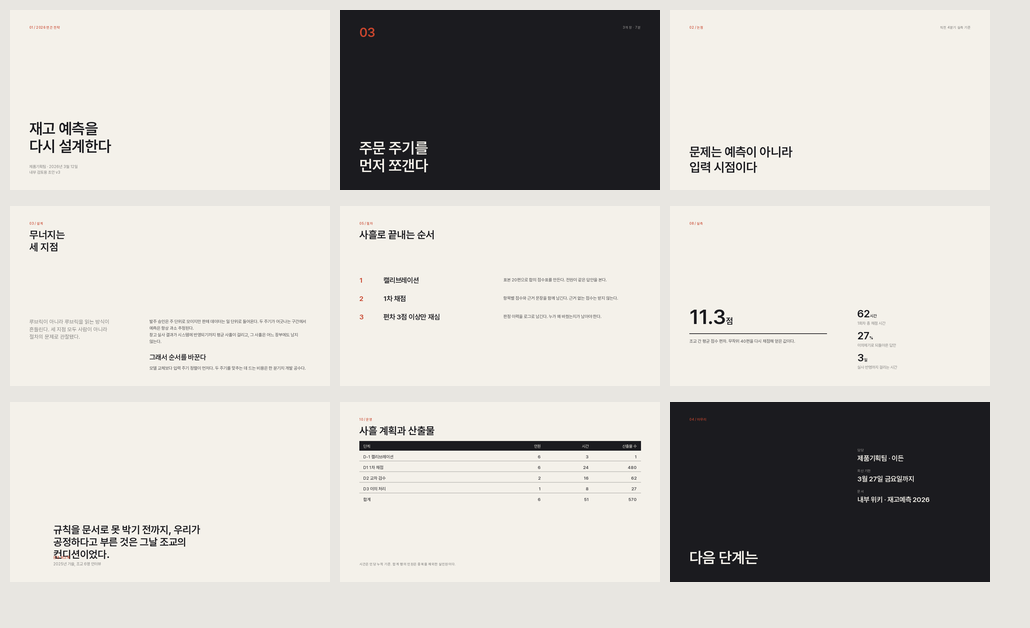
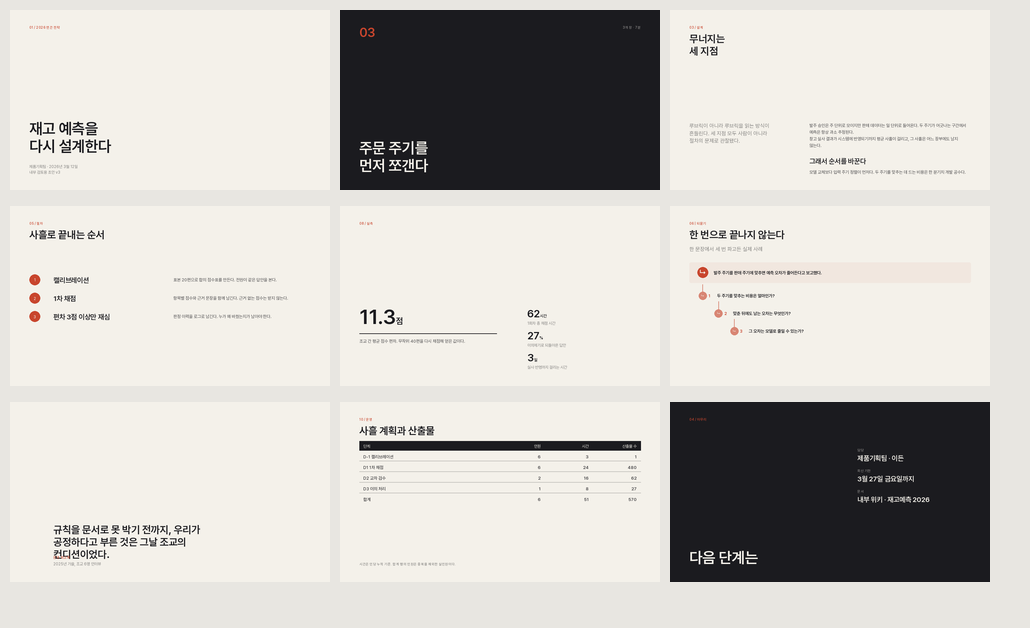
도형 어휘 추가 — 배지·패널·연결선. 텍스트만 있는 장을 없앤다
"시각적으로 눈길을 끄는 게 없다"는 지적을 받고, 앞서 텍스트만 재고
도형은 한 번도 재지 않았다는 걸 알았다. 사용자 덱 4종의 도형을 실측했다.

실측 (슬라이드당 도형 중앙값 5개)
- OVAL 295개 — 지름 32(124회) / 24(62회). 행의 시작점을 잡는 배지
- ROUNDED_RECTANGLE 269개 — 모서리 반경 5pt. 폭 845(전폭) / 412 / 268
- 연결선 124개 — 두께 1.0pt(193회), 배지와 배지를 잇는다
- 채움 EDF1EC = accent 를 ground 쪽으로 0.94, 보조 배지 6E9C7F = 0.37

hard_rules 재정의
- no_rounded_corner / no_decor_rule / no_full_width_band 폐기.
  이 셋은 사용자가 실제로 잘 쓰는 장치를 통째로 막고 있었다
- no_decorative_shape 로 대체 — 모든 도형은 활자를 담거나 관계를 나타내야 한다.
  장식만 하는 도형은 여전히 만들 수 없다. no_title_underline 은 유지

추가
- deckkit: badge() / panel() / connector() 프리미티브,
  accent_tint · accent_soft 파생색
- chain 레이아웃 — 전제 패널 + 꼬리를 무는 질문.
  사용자 덱 12쪽의 좌표(들여쓰기 47.5 / 행 step 53 / 배지 중심 98)를 그대로 옮겼다
- cards 4모드의 색인을 배지로 교체
- 미리보기 렌더러가 원·라운드 사각형을 제대로 그린다
- lint_deck: SHAPE 검사(허용 어휘 + 활자 포함 여부), ALIGN 은 배지 글리프 예외

diff --git a/scripts/lint_deck.py b/scripts/lint_deck.py
@@ -46,10 +46,8 @@ def main(path):
             got = int(spc.group(1)) if spc else 0
             if want is not None and got != want:
                 fail("TRACK", f"s{i}: {pt}pt 의 자간 {got} != 스타일 값 {want}")
-        if 'algn="ctr"' in x:
-            fail("ALIGN", f"s{i}: 가운데 정렬 단락이 있다")
-        if "<a:gradFill" in x or "roundRect" in x:
-            fail("HARD", f"s{i}: 그라데이션 또는 둥근 모서리가 있다")
+        if "<a:gradFill" in x:
+            fail("HARD", f"s{i}: 그라데이션이 있다")
         for sp in re.findall(r"<p:sp>.*?</p:sp>", x, re.S):
             if "<a:prstGeom" in sp and "<a:effectLst/>" not in sp and "<a:effectLst>" in sp:
                 fail("NO_SHADOW", f"s{i}: 효과가 걸린 도형이 있다")
@@ -82,7 +80,11 @@ def main(path):
         for n, boxes in sorted(by_slide.items()):
             for b in boxes:
                 # image_full 의 글자는 판 내부 좌표라 그리드 밖을 허용한다
-                if b["tag"] in ("full-title", "caption") or (b["tag"] == "eyebrow" and b["y"] > 300):
+                # chain 의 들여쓰기(47.5pt step)와 배지 안 활자는 컬럼 그리드를 일부러 벗어난다.
+                # 계단이 관계를 나타내는 장치이기 때문이다 — 사용자 덱도 82.1/129.6/177.1 이다.
+                if b["tag"].startswith(("chain-", "badge-", "panel-")) or \
+                   b["tag"] in ("full-title", "caption", "ledger-index") or \
+                   (b["tag"] == "eyebrow" and b["y"] > 300):
                     continue
                 if b["x"] not in COLS and round(b["x"]) not in {round(col_x(n)) + spec["table"]["pad_x"] for n in range(1, 13)} | {round(col_x(n) + span_w(sp) - spec["table"]["pad_x"]) for n in range(1, 13) for sp in (2, 3, 4, 6)} | {58, 72}:
                     fail("GRID", f"s{n}: '{b['tag']}' x={b['x']} 가 컬럼 좌표가 아니다")
@@ -92,6 +94,9 @@ def main(path):
                 # 검사 대상은 '눈썹 라벨 역할'(tag == eyebrow)뿐이다.
                 # image_full 만 예외 — 눈썹이 판 내부(y 340)에 놓인다 (§8.15).
                 ok_y = {(spec.get("rhythm_y") or {}).get("eyebrow_y", 56), 340, 354}
+                # 가운데 정렬은 배지 안 글리프에만 허용한다. 본문은 전부 좌정렬.
+                if b.get("align") == "center" and not b["tag"].startswith("badge-"):
+                    fail("ALIGN", f"s{n}: '{b['tag']}' 가운데 정렬 — 본문은 좌정렬이다")
                 if b["tag"] == "eyebrow" and b["y"] not in ok_y:
                     fail("EYEBROW_Y", f"s{n}: 눈썹 라벨 y={b['y']} (56 고정)")
             R = spec.get("rhythm_y")
@@ -108,19 +113,25 @@ def main(path):
             elif 56 not in tops and max(bottoms) < 483.5:
                 fail("ANCHOR", f"s{n}: 상단 56 도 하단 484 도 잡히지 않았다 "
                                f"(최하단 {max(bottoms):.0f})")
+        # 도형 어휘 검사 — "도형 금지"가 아니라 "장식만 하는 도형 금지"다.
+        # panel/badge 는 안에 활자가 있어야 하고, 선은 관계를 나타내야 한다.
+        ALLOWED = {"plate", "panel", "badge", "connector", "hero_rule", "table_rule"}
         for sh in man.get("shapes", []):
-            k = sh.get("kind")
-            if k == "plate":
-                if min(sh["w"], sh["h"]) < spec["plates"]["plate_min_side"]:
-                    fail("PLATE", f"s{sh['slide']}: plate 짧은 변 {min(sh['w'], sh['h'])} < 32")
-            elif k == "hero_rule":
-                if sh["h"] != spec["rules"]["hero_rule_w"]:
-                    fail("PLATE", f"s{sh['slide']}: hero_rule 두께 {sh['h']}")
-            elif k == "table_rule":
-                if sh["h"] != spec["rules"]["table_rule_w"]:
-                    fail("PLATE", f"s{sh['slide']}: table_rule 두께 {sh['h']}")
-            else:
-                fail("PLATE", f"s{sh['slide']}: 허용되지 않은 사각형 '{k}'")
+            k, n = sh.get("kind"), sh["slide"]
+            if k not in ALLOWED:
+                fail("SHAPE", f"s{n}: 허용되지 않은 도형 '{k}'")
+                continue
+            if k in ("plate", "panel", "badge"):
+                inside = [b for b in by_slide.get(n, [])
+                          if b["x"] >= sh["x"] - 2 and b["y"] >= sh["y"] - 14
+                          and b["x"] + b["w"] <= sh["x"] + sh["w"] + 2
+                          and b["y"] <= sh["y"] + sh["h"] + 4]
+                if not inside and k != "panel":
+                    fail("SHAPE", f"s{n}: '{k}' 안에 활자가 없다 — 장식 도형은 만들지 않는다")
+                if min(sh["w"], sh["h"]) < spec["plates"]["plate_min_side"] and k == "plate":
+                    fail("PLATE", f"s{n}: plate 짧은 변 {min(sh['w'], sh['h'])} 미달")
+            if k == "connector" and sh["w"] > 3:
+                fail("SHAPE", f"s{n}: 연결선 두께 {sh['w']} — 1pt 안팎이어야 한다")
     else:
         fail("PLATE", "매니페스트가 없어 사각형·그리드 검사를 못 했다")
 

diff --git a/scripts/build.py b/scripts/build.py
@@ -176,20 +176,23 @@ def cards(d, s, m, sl):
     BIAS = 0.38      # 남는 높이의 38%만 위에 둔다 — 정중앙보다 살짝 위가 안정적이다
 
     def cell_h(it, w):
-        h = 20 + g.bh(it.get("title", ""), w, "h2")
+        h = d.spec["shapes"]["badge_d_sub"] + 10 + g.bh(it.get("title", ""), w, "h2")
         if it.get("body"):
             h += 8 + g.bh(it["body"], w, "small")
         return h
 
+    SH = d.spec["shapes"]
+
     def cell(it, x, w, y):
-        d.text(s, "micro", x, y, w, 15, str(it.get("index", "")),
-               color="accent", tag="card-index")
+        dd = SH["badge_d_sub"]
+        d.badge(s, x + dd / 2, y + dd / 2, dd, "accent",
+                glyph=str(it.get("index", "")), glyph_color="ground", style="small")
         th = g.bh(it.get("title", ""), w, "h2")
-        d.text(s, "h2", x, y + 20, w, th, it.get("title", ""), tag="card-title")
+        d.text(s, "h2", x, y + dd + 10, w, th, it.get("title", ""), tag="card-title")
         if it.get("body"):
             bh_ = g.bh(it["body"], w, "small")
-            d.text(s, "small", x, y + 20 + th + 8, w, bh_, it["body"],
-                   color="muted", tag="card-body")
+            d.text(s, "small", x, y + SH["badge_d_sub"] + 10 + th + 8, w, bh_,
+                   it["body"], color="muted", tag="card-body")
 
     # 행은 실제 높이로 위에서부터 쌓는다. 남은 높이에 균등 분배하면 흩어져 보인다.
     def place(total):
@@ -209,8 +212,9 @@ def cards(d, s, m, sl):
         for it in items[:3]:
             th = g.bh(it.get("title", ""), span_w(4), "h2")
             bh_ = g.bh(it.get("body", ""), span_w(6), "body") if it.get("body") else 0
-            d.text(s, "h2", col_x(1), y, span_w(1), th, str(it.get("index", "")),
-                   color="accent", tag="ledger-index")
+            SH = d.spec["shapes"]
+            d.badge(s, col_x(1) + SH["badge_d"] / 2, y + 13, SH["badge_d"], "accent",
+                    glyph=str(it.get("index", "")), glyph_color="ground", style="small")
             d.text(s, "h2", col_x(2), y, span_w(4), th, it.get("title", ""),
                    tag="ledger-title")
             if bh_:
@@ -278,6 +282,45 @@ def quote(d, s, m, sl):
     if sl.get("note"):
         d.text(s, "small", col_x(2), y_note, span_w(5), 18, sl["note"],
                color="muted", tag="quote-note")
+
+
+def chain(d, s, m, sl):
+    """전제 패널 + 꼬리를 무는 질문. 사용자 덱 12쪽의 구조를 좌표까지 그대로 옮긴 것이다.
+    패널 = 묶음, 배지 = 행의 시작점, 연결선 = 파고드는 관계. 셋 다 장식이 아니다."""
+    g = L(d)
+    SH = d.spec["shapes"]
+    g.head(s, sl, span=12)
+    y = g.top
+    if sl.get("lead"):
+        lh = g.bh(sl["lead"], span_w(10), "lead")
+        d.text(s, "lead", col_x(1), y, span_w(10), lh, sl["lead"], color="muted", tag="lead")
+        y += lh + 30
+
+    bx = col_x(1) + 40                      # 배지 중심 x (실측 98)
+    if sl.get("panel"):
+        ph = SH["panel_h"]
+        d.panel(s, col_x(1), y, span_w(12), ph, radius=SH["panel_radius"])
+        d.badge(s, bx, y + ph / 2, SH["badge_d"], "accent",
+                glyph=sl.get("panel_mark", "\u21b3"), glyph_color="ground", style="h2")
+        d.text(s, "body", col_x(1) + 73, y + ph / 2 - 11, span_w(12) - 90, 22,
+               sl["panel"], font_key="head", tag="panel-text")
+        y += ph
+
+    steps = sl.get("steps") or []
+    dsub, ind, step = SH["badge_d_sub"], SH["chain_indent"], SH["chain_step"]
+    if len(steps) > 4:
+        warn(f"slide {d._slide_i}: chain 단계 {len(steps)}개 — 4개까지만 들여쓰기가 화면에 든다")
+    for i, tx in enumerate(steps[:4]):
+        cx = bx + i * ind
+        cy = y + 39 + i * step
+        d.connector(s, cx, (y + 4.6) if i == 0 else (cy - step + dsub / 2 + 5),
+                    (cy - dsub / 2) - ((y + 4.6) if i == 0 else (cy - step + dsub / 2 + 5)))
+        d.badge(s, cx, cy, dsub, "accent_soft", glyph="\u21b3",
+                glyph_color="ground", style="micro")
+        d.text(s, "small", cx + 17, cy - 9, 22, 18, str(i + 1),
+               color="accent", font_key="head", tag="chain-num")
+        d.text(s, "body", cx + 43, cy - 11, content_r() - (cx + 43), 22, str(tx),
+               font_key="head", tag="chain-text")
 
 
 def table(d, s, m, sl):
@@ -351,7 +394,7 @@ def image_full(d, s, m, sl):
                color="muted", tag="caption")
 
 
-LAYOUTS = {"cover": cover, "closing": closing, "section": section,
+LAYOUTS = {"cover": cover, "closing": closing, "section": section, "chain": chain,
            "statement": statement, "two_col": two_col, "cards": cards,
            "data": data, "quote": quote, "table": table,
            "image_split": image_split, "image_full": image_full}

diff --git a/scripts/deckkit.py b/scripts/deckkit.py
@@ -123,7 +123,10 @@ def derive(pal: dict, cfg: dict) -> dict:
                "ink2":  mix(f, g, c["tone_ink2"]),
                "muted": mix(f, g, c["tone_muted"]),
                "faint": mix(f, g, c["tone_faint"]),
-               "hairline": mix(f, g, c["hairline_mix"])}
+               "hairline": mix(f, g, c["hairline_mix"]),
+               # 실측 — 패널 채움 EDF1EC = accent 를 ground 쪽으로 0.94, 보조 배지 6E9C7F = 0.37
+               "accent_tint": mix(pal["accent"], g, c.get("accent_tint_mix", 0.94)),
+               "accent_soft": mix(pal["accent"], g, c.get("accent_soft_mix", 0.37))}
         assert contrast(out["ink2"], g) >= c["min_ratio_body"], \
             f"ink2 vs ground {contrast(out['ink2'], g):.2f}"
         assert contrast(out["muted"], g) >= c["min_ratio_caption"], \
@@ -135,7 +138,9 @@ def derive(pal: dict, cfg: dict) -> dict:
     assert contrast(muted, g) >= c["muted_min_ratio_ground"]
     assert contrast(muted, f) >= c["muted_min_ratio_figure"]
     return {"ground": g, "figure": f, "accent": pal["accent"],
-            "ink2": f, "muted": muted, "faint": muted, "hairline": hairline}
+            "ink2": f, "muted": muted, "faint": muted, "hairline": hairline,
+            "accent_tint": mix(pal["accent"], g, 0.94),
+            "accent_soft": mix(pal["accent"], g, 0.37)}
 
 
 # ---------------------------------------------------------------- §6 줄수 계산
@@ -208,7 +213,7 @@ def assert_plate_ok(w: float, h: float, has_text: bool, kind: str, spec=None):
     if kind == "plate":
         assert min(w, h) >= lim, f"plate 짧은 변 {min(w, h)} < {lim}"
         assert has_text, "활자를 담지 않는 채움 사각형은 생성 금지"
-    elif kind in ("hero_rule", "table_rule"):
+    elif kind in ("hero_rule", "table_rule", "connector"):
         pass                      # 두께는 스펙의 rules 그룹이 강제한다
     else:
         raise ValueError(f"허용되지 않은 사각형 종류: {kind}")
@@ -412,6 +417,41 @@ class Deck:
         self.shapes.append(dict(slide=self._slide_i, x=x, y=y, w=w, h=h,
                                 color=self.c(color), kind=kind))
         return sh
+
+    def panel(self, s, x, y, w, h, color="accent_tint", radius=5.0):
+        """살짝 둥근 채움 패널. 실측 — 반경 5pt, 채움은 accent 를 ground 쪽으로 0.94 섞은 톤.
+        장식이 아니라 한 덩어리를 묶는 그릇이므로 반드시 안에 활자가 들어간다."""
+        sh = s.shapes.add_shape(MSO_SHAPE.ROUNDED_RECTANGLE, Pt(x), Pt(y), Pt(w), Pt(h))
+        try:
+            sh.adjustments[0] = min(0.5, radius / max(1e-6, min(w, h)))
+        except Exception:
+            pass
+        sh.fill.solid(); sh.fill.fore_color.rgb = RGBColor.from_string(self.c(color))
+        sh.line.fill.background(); sh.shadow.inherit = False
+        sh.text_frame.text = ""
+        self.shapes.append(dict(slide=self._slide_i, x=x, y=y, w=w, h=h,
+                                color=self.c(color), kind="panel", radius=radius))
+        return sh
+
+    def badge(self, s, cx, cy, d=32.0, color="accent", glyph="", glyph_color="ground",
+              style="small"):
+        """원형 배지. 실측 지름 32(주) / 24(보조). 번호·기호를 담아 행의 시작점을 잡는다."""
+        x, y = cx - d / 2, cy - d / 2
+        sh = s.shapes.add_shape(MSO_SHAPE.OVAL, Pt(x), Pt(y), Pt(d), Pt(d))
+        sh.fill.solid(); sh.fill.fore_color.rgb = RGBColor.from_string(self.c(color))
+        sh.line.fill.background(); sh.shadow.inherit = False
+        sh.text_frame.text = ""
+        self.shapes.append(dict(slide=self._slide_i, x=x, y=y, w=d, h=d,
+                                color=self.c(color), kind="badge"))
+        if glyph:
+            st = self.spec["styles"][style]
+            self.text(s, style, x, cy - st["size"] * 0.72, d, st["size"] * 1.45,
+                      str(glyph), color=glyph_color, align="center", tag="badge-glyph")
+        return sh
+
+    def connector(self, s, x, y, h, w=1.0, color="accent_soft"):
+        """배지와 배지를 잇는 세로선. 관계를 나타내는 선이라 장식선 금지에 걸리지 않는다."""
+        return self._rect(s, x - w / 2, y, w, h, color, "connector", True)
 
     def plate(self, s, x, y, w, h, color="figure"):
         """채움 판. 짧은 변 >= 32 이고 반드시 활자를 담을 때만 허용된다."""

diff --git a/scripts/svgpreview.py b/scripts/svgpreview.py
@@ -165,9 +165,16 @@ def raster(man, idx, scale=1.0):
     for sh in man.get("shapes", []):
         if sh["slide"] != idx:
             continue
-        dr.rectangle([sh["x"] * scale, sh["y"] * scale,
-                      (sh["x"] + sh["w"]) * scale, (sh["y"] + sh["h"]) * scale],
-                     fill="#" + sh["color"])
+        box = [sh["x"] * scale, sh["y"] * scale,
+               (sh["x"] + sh["w"]) * scale, (sh["y"] + sh["h"]) * scale]
+        kind = sh.get("kind")
+        if kind == "badge":
+            dr.ellipse(box, fill="#" + sh["color"])
+        elif kind == "panel":
+            dr.rounded_rectangle(box, radius=sh.get("radius", 5) * scale,
+                                 fill="#" + sh["color"])
+        else:
+            dr.rectangle(box, fill="#" + sh["color"])
 
     for b in man["boxes"]:
         if b["slide"] != idx:

diff --git a/scripts/validate.py b/scripts/validate.py
@@ -70,7 +70,7 @@ def main(path):
         for p in re.findall(r"<a:p>.*?</a:p>", x, re.S):
             if "<a:r>" in p and "<a:endParaRPr" not in p:
                 end_missing += 1
-        for prst, why in (("roundRect", "둥근 모서리"), ("<a:gradFill", "그라데이션"),
+        for prst, why in (("<a:gradFill", "그라데이션"),
                           ("<a:effectLst><a:outerShdw", "그림자")):
             if prst in x:
                 warn(f"{os.path.basename(sl)}: {why} 발견 — 이 덱의 설계 규칙에 없는 효과다")
